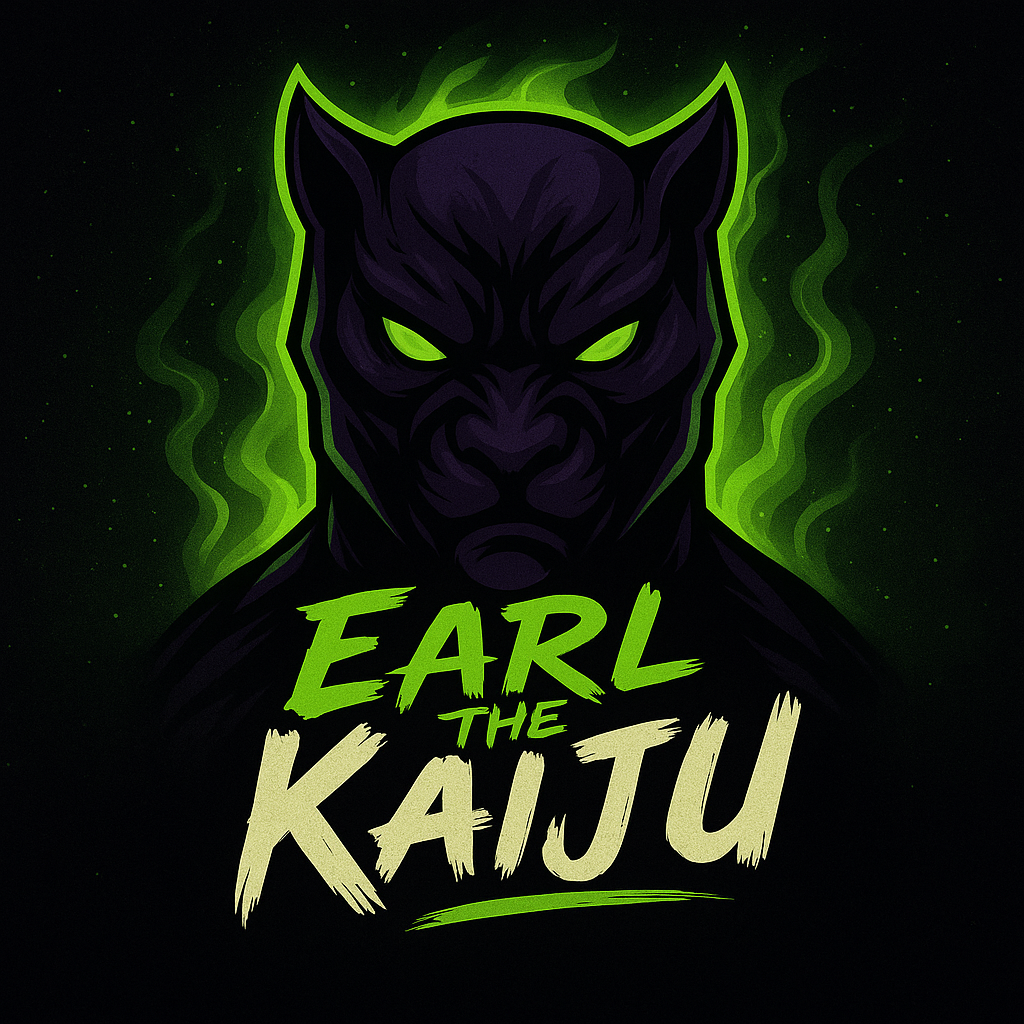
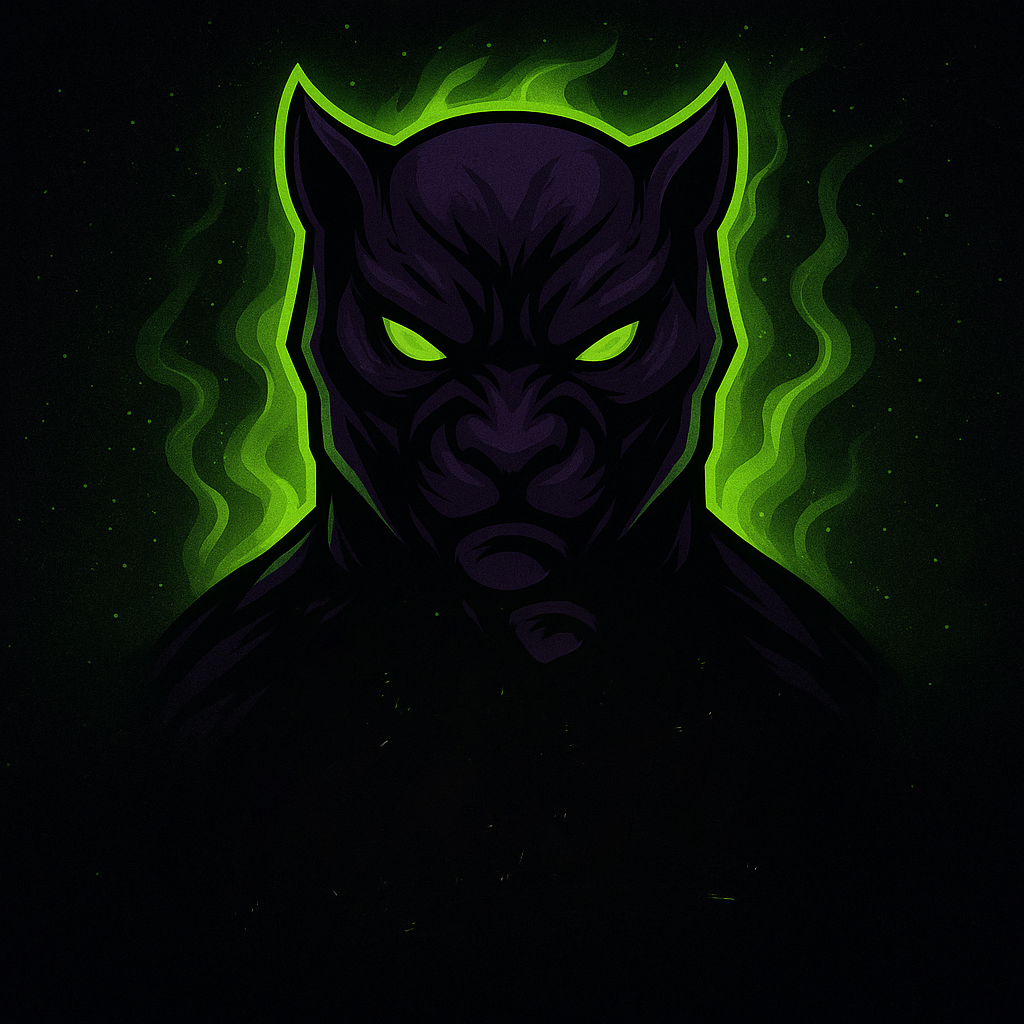
Penny updates to images and small styling

Changed region(s): [[0.2188, 0.5625, 0.7812, 0.9062]]

diff --git a/client/src/pages/home.tsx b/client/src/pages/home.tsx
@@ -27,9 +27,7 @@ export default function Home() {
                 React • JavaScript • UI/UX • Expanding into Full-Stack
               </h3>
               <p className="text-xl text-gray-600 mb-8 leading-relaxed" data-testid="hero-description">
-                Versatile Front-End Engineer with 6+ years creating responsive, accessible, high-performing web applications. 
-                Proven track record: +37% lead conversions, +25% organic traffic, +75% live stream engagement.
-                Based in Parsippany, New Jersey.
+                Dynamic Front-End Engineer with 6+ years crafting responsive, accessible, and high-performance web applications. Skilled at transforming complex ideas into intuitive, visually engaging user experiences. Based in Parsippany, NJ, with a track record of elevating brand presence, streamlining workflows, and delivering solutions that resonate with users.
               </p>
               
               {/* CTAs */}

diff --git a/client/src/pages/earldkaiju.tsx b/client/src/pages/earldkaiju.tsx
@@ -14,6 +14,7 @@ import { Checkbox } from "@/components/ui/checkbox";
 import { Accordion, AccordionContent, AccordionItem, AccordionTrigger } from "@/components/ui/accordion";
 import { OAuthConnect } from "@/components/oauth-connect";
 import kaijuBanner from "@/images/kaiju-banner.png";
+import kaijuLogo from "@/images/kaiju-logo.png";
 import earlBjjPhoto from "@/images/earl-bjj-photo.png";
 import bjjAccomplishments from "@/data/bjj-accomplishments.json";
 
@@ -134,7 +135,7 @@ export default function EarldKaiju() {
             {/* Kaiju Logo Image */}
             <div className="flex justify-center mb-8">
               <img 
-                src={kaijuBanner} 
+                src={kaijuLogo} 
                 alt="Earl the Kaiju Logo" 
                 className="w-64 h-64 lg:w-80 lg:h-80 object-contain drop-shadow-2xl"
                 data-testid="kaiju-logo"

diff --git a/client/src/pages/about.tsx b/client/src/pages/about.tsx
@@ -1,5 +1,5 @@
 import { workExperience } from "@/data/experience";
-import aboutImage from "@/images/justMe.png";
+import aboutImage from "@/images/BLKBELT.png";
 
 export default function About() {
   const skills = [
